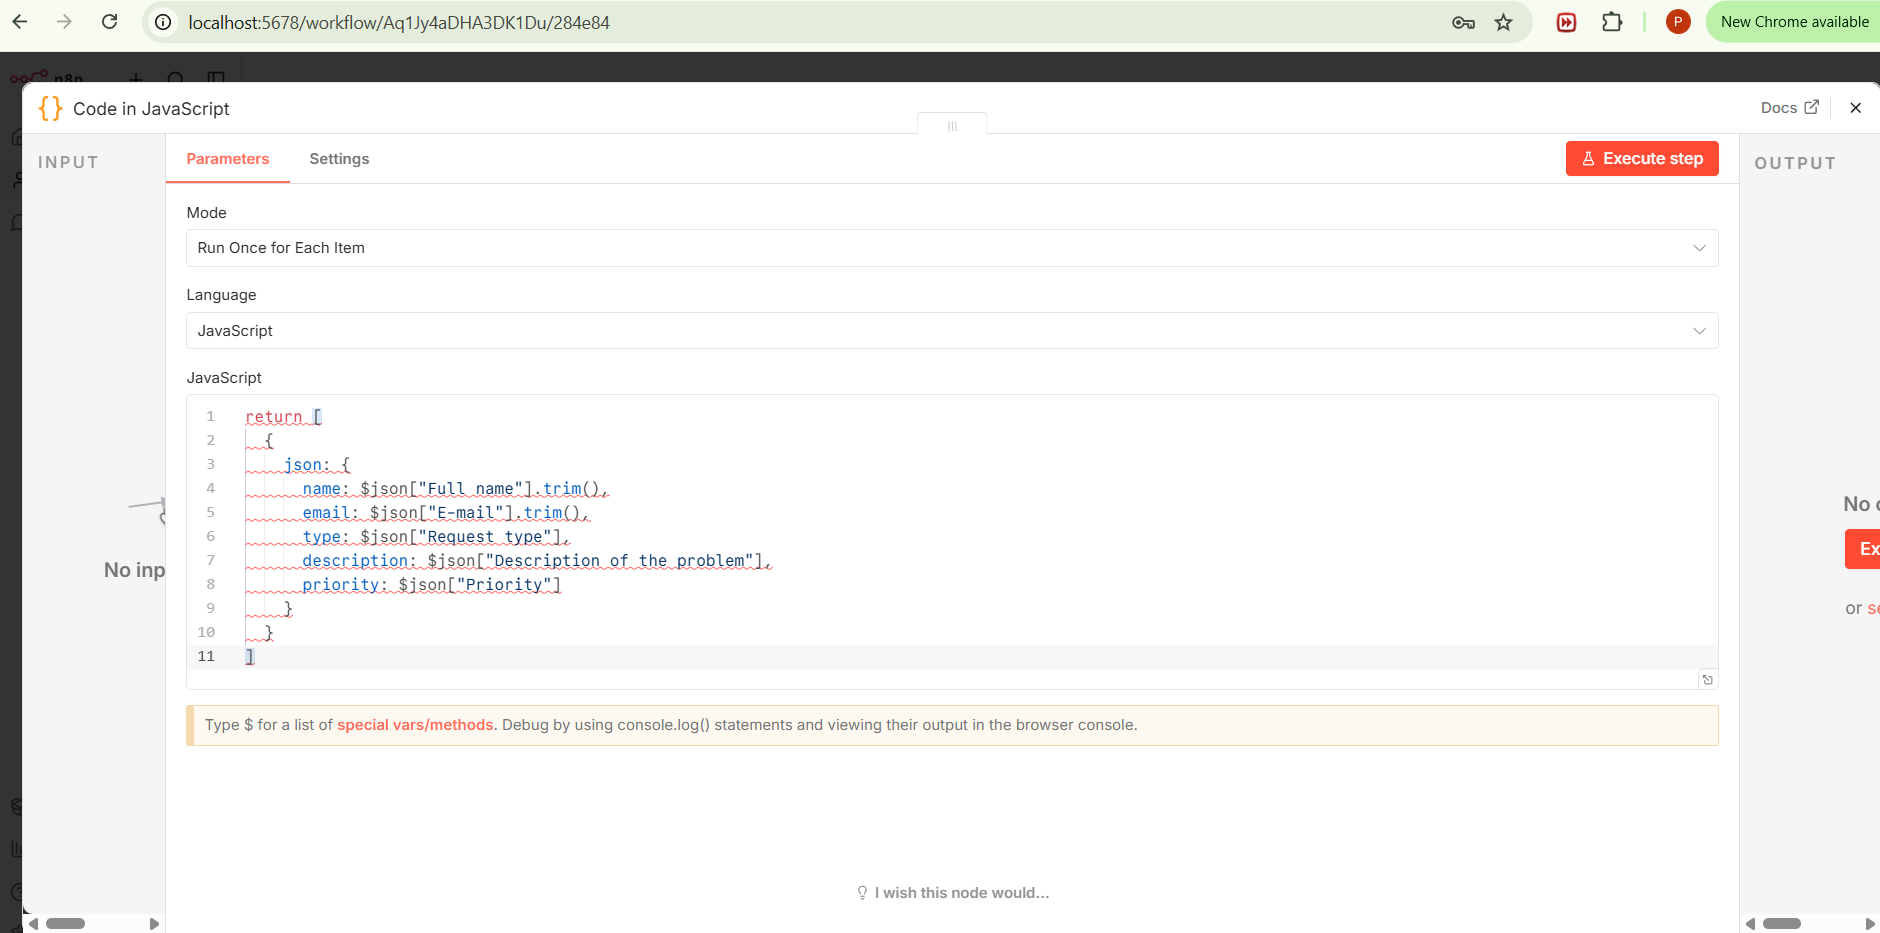
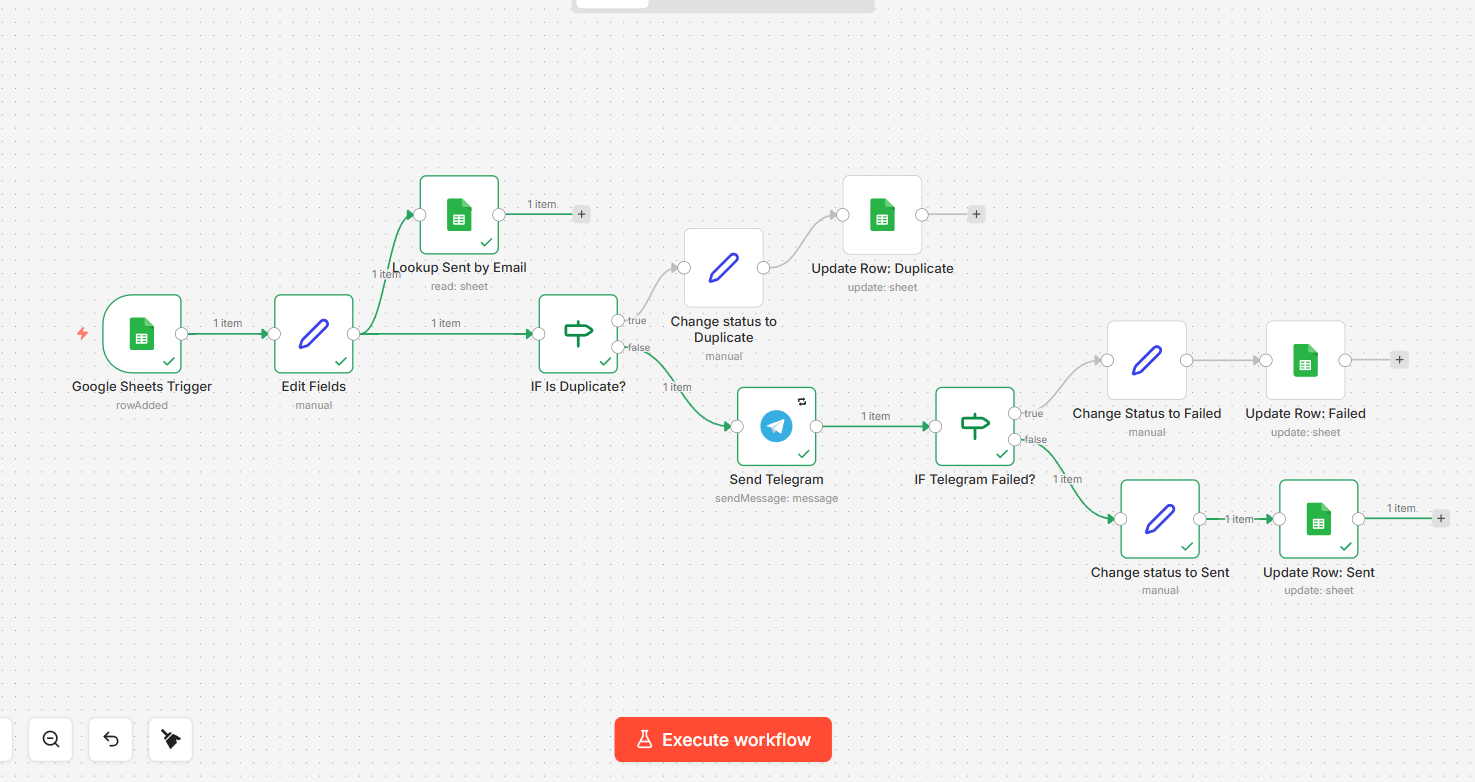
fix: finish hw 23

diff --git a/hw23_llm_infra/README.md b/hw23_llm_infra/README.md
@@ -41,31 +41,34 @@ APIs&Services -> OAuth consent screen -> Audience -> test users -> add my email.
 Authorized redirect URIs - paste the URI copied from n8n -> Create.
 
 Copy Client ID and client secret to n8n -> Sign in to Google.
-![Screenshot 8](images/image8.png)
-![Screenshot 9](images/image9.png)
+![Screenshot 5](images/image8.png)
+![Screenshot 6](images/image9.png)
 
 Enable Google drive API in google cloud.
 
 FINALLY choose the document and sheet to finish the trigger:
-![Screenshot 10](images/image10.png)
+![Screenshot 7](images/image10.png)
 
 And after filling in the form, the result appeared in n8n:
-![Screenshot 11](images/image11.png)
-![Screenshot 12](images/image12.png)
+![Screenshot 8](images/image11.png)
+![Screenshot 9](images/image12.png)
 
-3. Lookup rows in the google sheet - check if the email exists
+3. Edit Fields -> normalize email (to lowercase, trim spaces) and store as email_norm.
 
-4. Add IF node
+4. Lookup rows in the google sheet - check if the email exists
 
-5. If the email exists - append row with status "duplicate"
+5. Add IF node
+If the email exists - update column "status" for this row to "duplicate"
+If not - add telegram node. Paste chat ID and the bot token in credentioals.
+In the settings - retry on fail. Send message to the chat.
 
-6. If not - add telegram node. Paste chat ID and the bot token in credentioals.
-In the settings - retry on fail.
+6. If sent had failed - update column "status" to "failed".
+If not - change "status" to "Sent".
 
-7. Append row with status "Sent"
-![Screenshot 14](images/image14.png)
+# 5. Test the workflow
 
+![Screenshot 10](images/image13.png)
+![Screenshot 11](images/image14.png)
 
-Current state:
-![Screenshot 15](images/image15.png)
-TODO: finish deduplication lookup, test telegram sent
+![Screenshot 12](images/image15.png)
+![Screenshot 13](images/image16.png)
